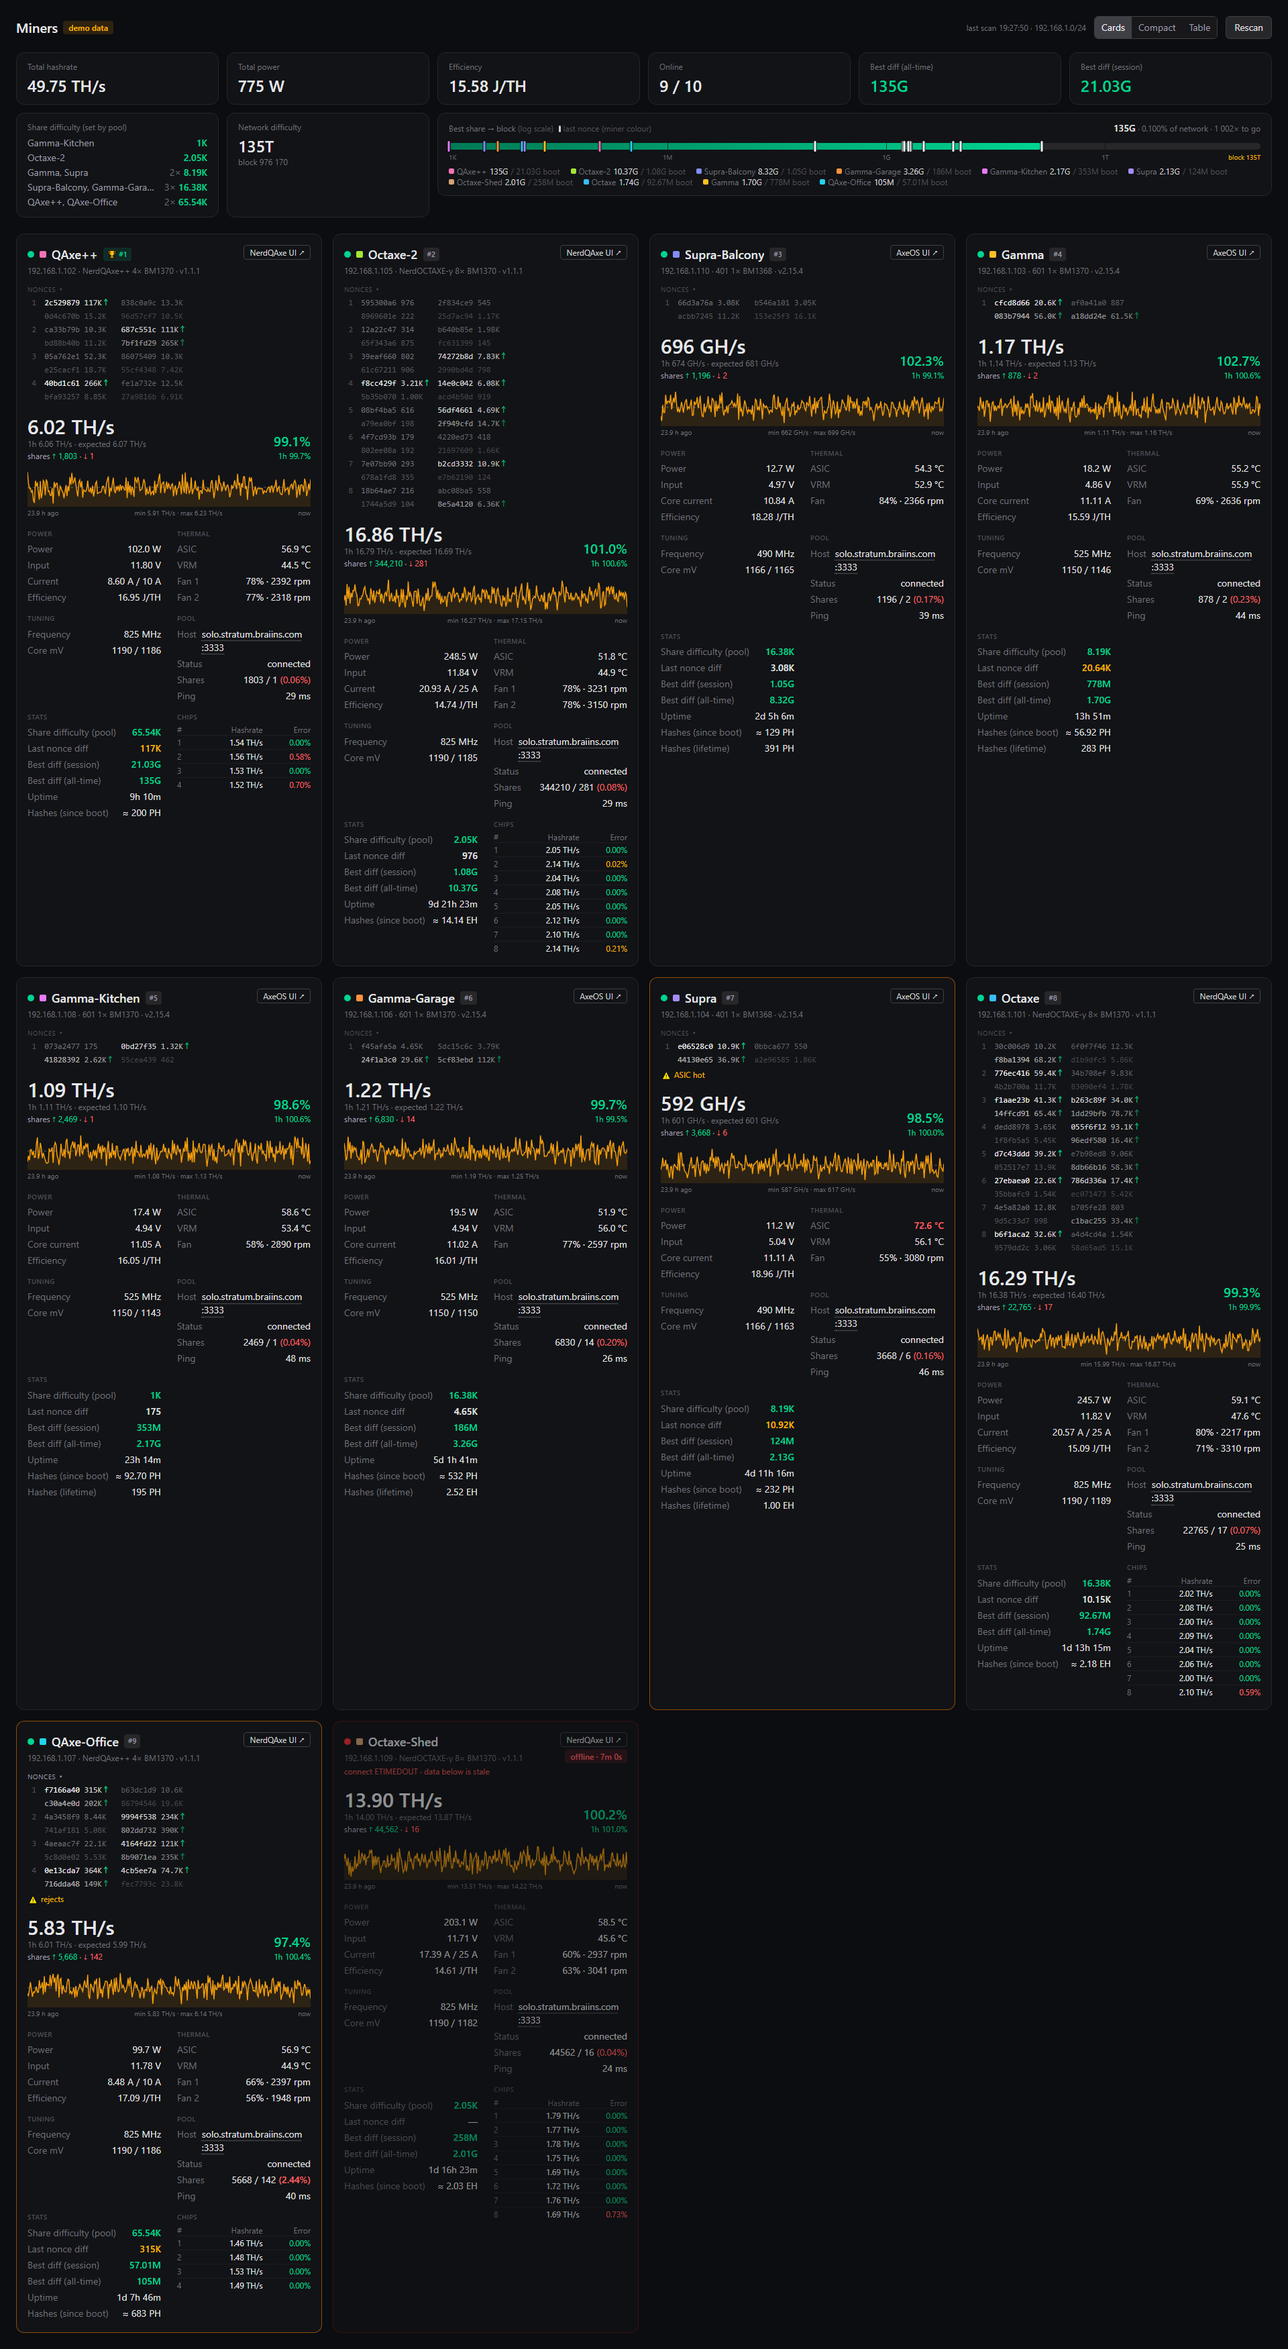
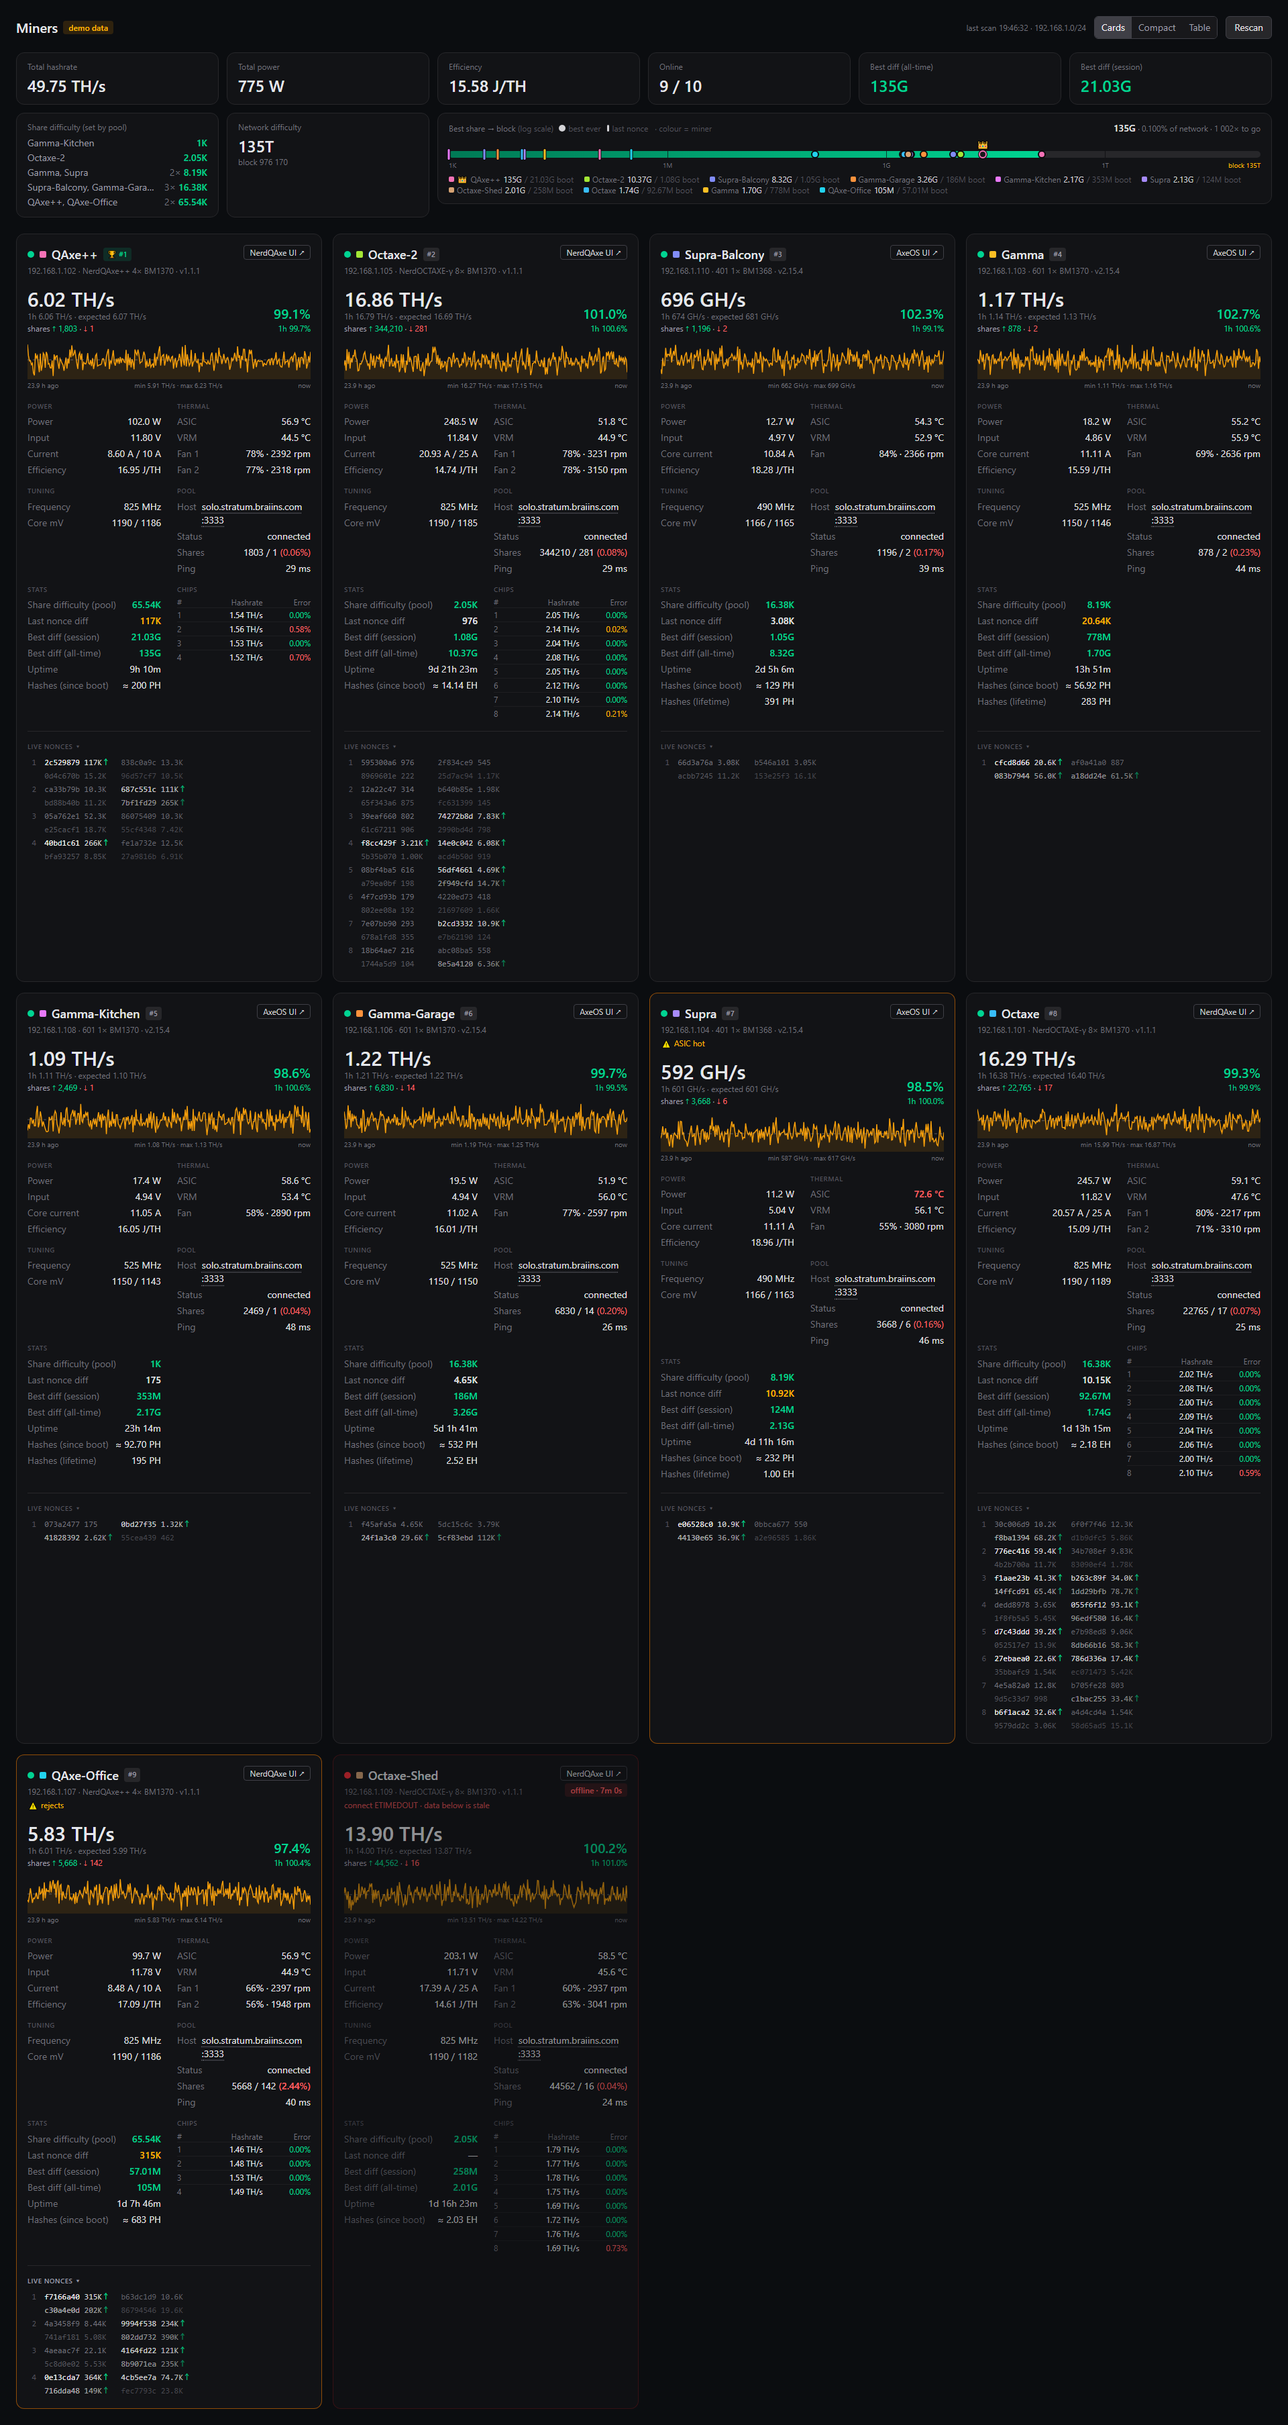
Live nonces at the bottom of the cards, coloured marks and a crown on the best-share bar
- Full card: name, chart, parameters, then live nonces at the very bottom, collapsed by
  default. In the Cards view each card spans two rows of the page grid (subgrid), so the
  nonces of all cards in a row start on the same line, whatever the chip count.
- Best-share bar: every mark in the miner's colour; filled dot = best ever, ring = best
  since boot (only the leader's with more than 6 miners), tick = newest nonce. A crown
  over the leader's ring and before its name in the legend; legend for the marks.
- Feed test opens the collapsed nonces first; README and screenshots updated.

diff --git a/components/DiffProgress.tsx b/components/DiffProgress.tsx
@@ -6,6 +6,7 @@ export interface DiffMark {
   session?: number; // best share since boot
   last?: number; // newest nonce from the live feed
   color?: string; // the miner's colour (lib/colors.ts)
+  leader?: boolean; // #1 on the leaderboard (best share since boot): gets the crown
 }
 
 const pct = (v: number) =>
@@ -28,20 +29,34 @@ export function DiffProgress({ from, to, marks }: { from: number; to: number; ma
   const ticks: number[] = [];
   for (let e = Math.ceil(lo / 3) * 3; e < hi; e += 3) if (e > lo) ticks.push(10 ** e);
   const sorted = [...marks].filter((m) => m.best).sort((a, b) => b.best! - a.best!);
-  // Many miners: dots would merge into a blob, so draw thin ticks for the all-time best only
-  // (the per-miner "since boot" values stay in the legend below).
+  // Many miners: draw only the all-time best, as smaller dots (the per-miner "since boot"
+  // values stay in the legend below).
   const dense = marks.length > 6;
+  const colorOf = (m: DiffMark) => m.color ?? "#f4f4f5";
+  const leader = marks.find((m) => m.leader && (m.session ?? m.best));
+  const crownAt = leader ? (leader.session ?? leader.best)! : undefined;
 
   return (
     <div className="rounded-xl border border-zinc-800 bg-zinc-900/60 px-4 py-3" data-testid="diff-progress">
       <div className="flex flex-wrap items-baseline justify-between gap-x-3">
         <div className="text-xs text-zinc-500">
           Best share → block <span className="text-zinc-600">(log scale)</span>
-          {marks.some((m) => m.last) && (
-            <span className="ml-2 text-zinc-600">
-              <span className="inline-block h-2.5 w-[3px] translate-y-px rounded-sm bg-zinc-300" /> last nonce (miner colour)
+          <span className="ml-2 inline-flex items-center gap-2.5 text-zinc-600">
+            <span className="inline-flex items-center gap-1">
+              <span className="inline-block h-2.5 w-2.5 rounded-full bg-zinc-300" /> best ever
             </span>
-          )}
+            {!dense && (
+              <span className="inline-flex items-center gap-1">
+                <span className="inline-block h-2.5 w-2.5 rounded-full border-2 border-zinc-300" /> since boot
+              </span>
+            )}
+            {marks.some((m) => m.last) && (
+              <span className="inline-flex items-center gap-1">
+                <span className="inline-block h-2.5 w-[3px] rounded-sm bg-zinc-300" /> last nonce
+              </span>
+            )}
+            <span>· colour = miner</span>
+          </span>
         </div>
         {best > 0 && (
           <div className="text-xs text-zinc-500 tabular-nums">
@@ -51,7 +66,7 @@ export function DiffProgress({ from, to, marks }: { from: number; to: number; ma
         )}
       </div>
 
-      <div className="relative mt-3 h-2.5 rounded-full bg-zinc-800">
+      <div className={`relative h-2.5 rounded-full bg-zinc-800 ${crownAt ? "mt-6" : "mt-3"}`}>
         {best > 0 && (
           <div
             className="absolute inset-y-0 left-0 rounded-full bg-gradient-to-r from-emerald-700 to-emerald-400"
@@ -71,30 +86,36 @@ export function DiffProgress({ from, to, marks }: { from: number; to: number; ma
               style={{ left: `${pos(m.last)}%`, background: m.color ?? "#fbbf24" }}
             />
           ) : null,
-          m.session && !dense ? (
+          // Dense: only the leader's "since boot" ring, under its crown.
+          m.session && (!dense || m.leader) ? (
             <div
               key={`${m.name}-s`}
               title={`${m.name}: best since boot ${fmtDiff(m.session)}`}
-              className="absolute top-1/2 h-2.5 w-2.5 -translate-x-1/2 -translate-y-1/2 rounded-full border border-zinc-200 bg-zinc-900"
-              style={{ left: `${pos(m.session)}%` }}
+              data-testid="session-mark"
+              className="absolute top-1/2 h-3 w-3 -translate-x-1/2 -translate-y-1/2 rounded-full border-2 bg-zinc-900 ring-1 ring-zinc-950"
+              style={{ left: `${pos(m.session)}%`, borderColor: colorOf(m) }}
             />
           ) : null,
-          m.best && dense ? (
+          m.best ? (
             <div
               key={`${m.name}-b`}
               title={`${m.name}: best ever ${fmtDiff(m.best)}`}
-              className="absolute top-1/2 h-4 w-[3px] -translate-x-1/2 -translate-y-1/2 rounded-sm bg-zinc-100 ring-1 ring-zinc-900"
-              style={{ left: `${pos(m.best)}%` }}
-            />
-          ) : m.best ? (
-            <div
-              key={`${m.name}-b`}
-              title={`${m.name}: best ever ${fmtDiff(m.best)}`}
-              className="absolute top-1/2 h-3.5 w-3.5 -translate-x-1/2 -translate-y-1/2 rounded-full border-2 border-zinc-900 bg-zinc-100"
-              style={{ left: `${pos(m.best)}%` }}
+              data-testid="best-mark"
+              className={`absolute top-1/2 -translate-x-1/2 -translate-y-1/2 rounded-full border-2 border-zinc-950 ${dense ? "h-3 w-3" : "h-3.5 w-3.5"}`}
+              style={{ left: `${pos(m.best)}%`, background: colorOf(m) }}
             />
           ) : null,
         ])}
+        {leader && crownAt && (
+          <div
+            title={`${leader.name}: #1, best since boot ${fmtDiff(leader.session)}`}
+            data-testid="crown"
+            className="pointer-events-none absolute bottom-full mb-0.5 -translate-x-1/2 text-sm leading-none transition-[left] duration-700 ease-out"
+            style={{ left: `${pos(crownAt)}%` }}
+          >
+            👑
+          </div>
+        )}
       </div>
 
       <div className="relative mt-1 h-4 text-[10px] text-zinc-500 tabular-nums">
@@ -114,6 +135,7 @@ export function DiffProgress({ from, to, marks }: { from: number; to: number; ma
           {sorted.map((m) => (
             <span key={m.name} className="inline-flex items-center gap-1">
               {m.color && <span className="inline-block h-2 w-2 shrink-0 rounded-[2px]" style={{ background: m.color }} />}
+              {m.leader && <span title="#1 by best share since boot">👑</span>}
               {m.name} <span className="text-zinc-300">{fmtDiff(m.best)}</span>
               {m.session ? <span className="text-zinc-600"> / {fmtDiff(m.session)} boot</span> : null}
             </span>

diff --git a/components/MinerCard.tsx b/components/MinerCard.tsx
@@ -86,18 +86,20 @@ function ChipTable({ chips }: { chips: ChipStat[] }) {
   );
 }
 
-export function MinerCard({ m, now, feed, feedCollapsed = false, onCollapse, rank, flash, color }: {
+export function MinerCard({ m, now, feed, onCollapse, rank, flash, color, alignRows }: {
   m: MinerView;
+  // Cards view: the card spans two rows of the page grid (subgrid), so the live nonces of all
+  // cards in a row start on the same line however tall the parameters above them are.
+  alignRows?: boolean;
   color?: string; // lib/colors.ts
   rank?: number; // leaderboard place, online miners only
   flash?: boolean; // just climbed the leaderboard
   now: number;
   feed?: NonceEvent[];
-  feedCollapsed?: boolean; // start with the nonce feed hidden (many miners on the page)
   onCollapse?: () => void; // back to the compact card
 }) {
   const s = m.snapshot;
-  const [showFeed, setShowFeed] = useState(!feedCollapsed);
+  const [showFeed, setShowFeed] = useState(false); // live nonces start collapsed
   const issues = minerIssues(m);
   const ago = Math.round((now - Date.parse(m.lastSeen)) / 1000);
 
@@ -142,22 +144,34 @@ export function MinerCard({ m, now, feed, feedCollapsed = false, onCollapse, ran
           )}
         </div>
       </div>
-      {m.online && (
-        <div className="mt-1.5">
-          <button onClick={() => setShowFeed((v) => !v)} className="text-[10px] uppercase tracking-wider text-zinc-600 hover:text-zinc-400">
-            nonces {showFeed ? "▾" : "▸"}
-          </button>
-          {showFeed && <NonceFeed events={feed} chips={s?.asicCount ?? 1} />}
-        </div>
-      )}
     </div>
   );
 
+  // Live nonces under everything else, collapsed by default.
+  const nonces = m.online ? (
+    <div className={alignRows ? "" : "pt-4"}>
+      <div className="border-t border-zinc-800 pt-2">
+        <button onClick={() => setShowFeed((v) => !v)} aria-expanded={showFeed}
+          className="text-[10px] font-semibold uppercase tracking-wider text-zinc-600 hover:text-zinc-400">
+          live nonces {showFeed ? "▾" : "▸"}
+        </button>
+        {showFeed && <div className="mt-1"><NonceFeed events={feed} chips={s?.asicCount ?? 1} /></div>}
+      </div>
+    </div>
+  ) : (
+    <div /> // keeps the second grid row when aligned
+  );
+  const layout = alignRows ? "grid" : "flex flex-col";
+  const rows = alignRows ? { gridRow: "span 2", gridTemplateRows: "subgrid", rowGap: "1rem" } : undefined;
+
   if (!s) {
     return (
-      <div className={`rounded-xl border border-red-900/60 bg-zinc-900/60 p-4 ${flash ? "rank-up" : ""}`}>
-        {header}
-        <p className="mt-3 text-sm text-zinc-500">No data yet. {m.lastError}</p>
+      <div className={`${layout} rounded-xl border border-red-900/60 bg-zinc-900/60 p-4 ${flash ? "rank-up" : ""}`} style={rows}>
+        <div className="min-w-0">
+          {header}
+          <p className="mt-3 text-sm text-zinc-500">No data yet. {m.lastError}</p>
+        </div>
+        {nonces}
       </div>
     );
   }
@@ -172,7 +186,8 @@ export function MinerCard({ m, now, feed, feedCollapsed = false, onCollapse, ran
   const hashesSinceBoot = s.uptimeSeconds && avgHr ? avgHr * 1e9 * s.uptimeSeconds : undefined;
 
   return (
-    <div className={`rounded-xl border bg-zinc-900/60 p-4 ${flash ? "rank-up" : ""} ${!m.online ? "border-red-900/60 opacity-60" : issues.length ? "border-amber-600/60" : "border-zinc-800"}`}>
+    <div className={`${layout} rounded-xl border bg-zinc-900/60 p-4 ${flash ? "rank-up" : ""} ${!m.online ? "border-red-900/60 opacity-60" : issues.length ? "border-amber-600/60" : "border-zinc-800"}`} style={rows}>
+      <div className="min-w-0">
       {header}
       {!m.online && m.lastError && <p className="mt-1 text-xs text-red-400/80">{m.lastError} · data below is stale</p>}
       {m.online && issues.length > 0 && <p className="mt-1 text-xs text-amber-400">⚠ {issues.join(" · ")}</p>}
@@ -275,6 +290,8 @@ export function MinerCard({ m, now, feed, feedCollapsed = false, onCollapse, ran
 
         {s.chips && s.chips.length > 0 && <ChipTable chips={s.chips} />}
       </div>
+      </div>
+      {nonces}
     </div>
   );
 }

diff --git a/app/page.tsx b/app/page.tsx
@@ -13,7 +13,7 @@ import { fmt, fmtDiff, fmtDiffShort, fmtHash, jPerTh } from "@/lib/format";
 import type { MinersResponse, NonceEvent } from "@/lib/types";
 
 const REFRESH_MS = 5000;
-// More miners than this: compact cards by default, nonce feeds collapsed in full cards.
+// More miners than this: compact cards by default.
 const MANY = 6;
 
 type View = "full" | "compact" | "table";
@@ -255,6 +255,7 @@ export default function Home() {
                 session: m.snapshot?.bestSessionDiff,
                 last: m.online ? lastNonce(feeds[m.id])?.diff : undefined,
                 color: colors[m.id],
+                leader: ranks[m.id] === 1,
               }))}
             />
           </div>
@@ -280,9 +281,9 @@ export default function Home() {
                 m={m}
                 now={data.now}
                 feed={feeds[m.id]}
-                feedCollapsed={many}
                 rank={ranks[m.id]}
                 color={colors[m.id]}
+                alignRows={view === "full"}
                 flash={!!climbed[m.id]}
                 onCollapse={view === "compact" ? () => toggle(m.id) : undefined}
               />

diff --git a/tests/dashboard.spec.ts b/tests/dashboard.spec.ts
@@ -112,7 +112,9 @@ test("Feed: live nonces arrive from every miner and show up on the cards", async
   for (const m of data.miners) {
     expect(seen[m.id]?.nonce, `${m.hostname} nonce`).toMatch(/^[0-9A-F]{8}$/);
   }
-  // At least one card shows a nonce in the feed line (8 lowercase hex digits).
+  // Live nonces sit collapsed at the bottom of each card: open one, it shows a nonce
+  // (8 lowercase hex digits).
+  await page.getByRole("button", { name: "live nonces ▸" }).first().click();
   await expect(page.locator("span.font-mono, div.font-mono span").filter({ hasText: /^[0-9a-f]{8}$/ }).first()).toBeVisible();
 });
 

diff --git a/README.md b/README.md
@@ -33,8 +33,8 @@ and a Bitaxe Gamma 601 on AxeOS v2.15.
 
 - Three views, switched in the header (the choice is remembered in the browser):
   - **Cards**: full cards; 3 columns for up to 3 miners, 4 columns for more (fewer on a narrow
-    window, a card is never narrower than 440 px). With more than 6 miners the nonce feeds
-    start collapsed.
+    window, a card is never narrower than 440 px). The live nonces of the cards in one row
+    start on the same line, however tall the parameters above them are.
   - **Compact**: small cards with hashrate, % of expected, chart, power, J/TH, ASIC temperature,
     shares, share difficulty, last nonce, best share since boot and ever, uptime; "more" opens the full card in place. This is the
     default when there are more than 6 miners.
@@ -51,10 +51,10 @@ and a Bitaxe Gamma 601 on AxeOS v2.15.
 - Difficulty row: each miner's share difficulty (set by the pool; miners with the same
   difficulty share one line), the network difficulty
   with the current block height, and a log-scale bar from share to block difficulty
-  marking every miner's best share (all-time and since boot; with more than 6 miners only
-  the all-time best, as thin ticks). Each miner has its own colour (a square next to its
-  name on the cards, in the table and in the bar's legend); a thin tick in that colour shows
-  the miner's newest nonce and hops along the bar as new nonces come in.
+  marking every miner in its own colour (a square next to its name on the cards, in the table
+  and in the bar's legend): a filled dot is the best share ever, a ring the best since boot
+  (with more than 6 miners only the leader's ring), a thin tick the newest nonce, hopping
+  along the bar as new nonces come in. A 👑 crown sits over the leader's ring.
 - A card per miner:
   - online/offline status (offline after 30 s without a response)
   - current and 1 h hashrate vs expected (`frequency × smallCoreCount × asicCount / 1000`)
@@ -69,7 +69,7 @@ and a Bitaxe Gamma 601 on AxeOS v2.15.
   - best difficulty, uptime; hashes computed since boot (estimate: average hashrate × uptime)
     and, on AxeOS 2.x, the exact lifetime counter `totalHashes` (NerdQAxe does not report one)
   - link to the miner's own web UI (AxeOS / NerdQAxe), opens in a new tab
-  - live nonce feed under the IP: one row per chip (numbered like the chip table) with the
+  - live nonce feed at the bottom of the card, collapsed by default: one row per chip (numbered like the chip table) with the
     last 4 nonces that chip found and their difficulty, so 8×4 on a NerdOctaxe, 4×4 on a
     NerdQAxe++, 1×4 on a Bitaxe (each chip's 4 become 2×2 when the card is too narrow);
     ↑ share accepted by the pool, ↓ rejected (hover for the reason), → waiting for the answer,
